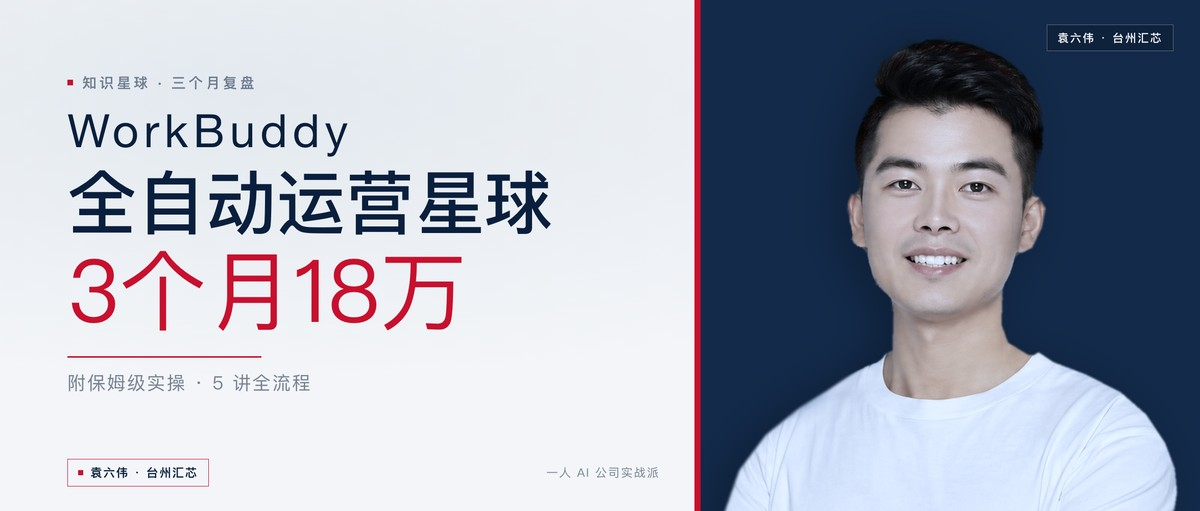
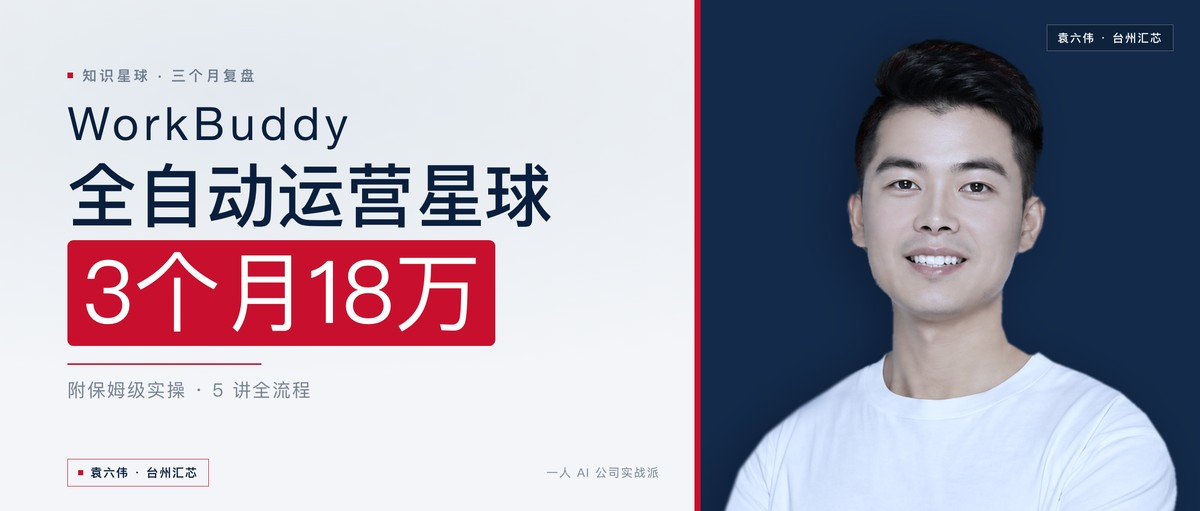
feat: high-contrast 6 cover layouts and cache-busting showcase v3

Changed region(s): [[0.0308, 0.3229, 0.4625, 0.7926], [0.0308, 0.2055, 0.3083, 0.2935], [0.0308, 0.1174, 0.2158, 0.1761]]

diff --git a/skills/wechat-cover-skill/scripts/render_cover_themes.py b/skills/wechat-cover-skill/scripts/render_cover_themes.py
@@ -291,34 +291,35 @@ def build_html(brief: dict, theme_key: str, portrait_uri: str, psize=(817, 883))
     <span class="strip-tag">{b['ip_tag']}</span>
   </div>"""
 
-    # 2) masthead：大刊报头 + 人物头顶破框叠压刊头细线
+    # 2) masthead：大刊报头（满宽深墨黑刊头条 + 人物头顶破框叠压）
     elif layout == "masthead":
-        p_h = 980
+        p_h = 960
         p_w = round(p_h * pw_ratio)
         p_left = W - p_w - 40
-        p_top = 86  # 刻意低于顶部 136px 报头线以下一点，使头部轻微破框叠压报头线
-        titles = _titles_html(b["lines"], t["weight"], 136, 168)
+        p_top = 92
+        titles = _titles_html(b["lines"], t["weight"], 134, 166)
         css = _base_css(t, theme_key) + f"""
-.masthead{{position:absolute;left:{TEXT_X}px;right:{TEXT_X}px;top:52px;height:86px;
-  border-bottom:2px solid {t['ink']};display:flex;justify-content:space-between;align-items:flex-end;padding-bottom:16px;z-index:1}}
-.mast-title{{font-family:{SERIF};font-size:44px;font-weight:700;letter-spacing:.18em;color:{t['ink']}}}
-.mast-title em{{font-style:normal;color:{t['accent']}}}
-.mast-meta{{font-family:{t['small_family']};font-size:23px;letter-spacing:.20em;color:{t['muted']};text-transform:uppercase}}
+.masthead{{position:absolute;left:0;right:0;top:0;height:112px;background:{t['ink']};
+  padding:0 {TEXT_X}px;display:flex;justify-content:space-between;align-items:center;z-index:1}}
+.mast-title{{font-family:{SERIF};font-size:40px;font-weight:700;letter-spacing:.18em;color:{t['paper']};
+  display:flex;align-items:center;gap:22px}}
+.mast-title .red-bar{{width:14px;height:42px;background:{t['accent']};display:inline-block}}
+.mast-meta{{font-family:{t['small_family']};font-size:22px;letter-spacing:.20em;color:rgba(241,239,234,.72);text-transform:uppercase}}
 .portrait{{position:absolute;left:{p_left}px;top:{p_top}px;width:{p_w}px;height:{p_h}px;
   object-fit:contain;object-position:bottom;filter:{SHADOW[theme_key]};z-index:2}}
-.txt{{position:absolute;left:{TEXT_X}px;top:210px;width:1160px;height:690px;z-index:3;
+.txt{{position:absolute;left:{TEXT_X}px;top:170px;width:1160px;height:710px;z-index:3;
   display:flex;flex-direction:column;justify-content:center}}
 .kicker{{margin-bottom:26px}}
-.brand{{font-size:88px;margin-bottom:16px}}
-.rule{{width:160px;height:4px;background:{t['accent']};margin:34px 0 24px}}
-.bottom-bar{{position:absolute;left:{TEXT_X}px;bottom:46px;width:1120px;border-top:1px solid {t['hair']};
+.brand{{font-size:86px;margin-bottom:16px}}
+.rule{{width:160px;height:4px;background:{t['accent']};margin:32px 0 22px}}
+.bottom-bar{{position:absolute;left:{TEXT_X}px;bottom:42px;width:1120px;border-top:1px solid {t['hair']};
   padding-top:16px;display:flex;justify-content:space-between;align-items:center;z-index:3;
   font-family:{SANS};font-size:23px;letter-spacing:.12em;color:{t['muted']}}}
 .bottom-bar strong{{color:{t['ink']};font-weight:600}}
 """
         body = f"""
   <div class="masthead">
-    <div class="mast-title">HUIXIN <em>·</em> {b['author']}</div>
+    <div class="mast-title"><i class="red-bar"></i><span>HUIXIN JOURNAL · {b['author']}</span></div>
     <div class="mast-meta">{b['ip_tag']}</div>
   </div>
   <img class="portrait" src="{portrait_uri}">
@@ -331,28 +332,30 @@ def build_html(brief: dict, theme_key: str, portrait_uri: str, psize=(817, 883))
   </div>
   <div class="bottom-bar"><span><strong>COLUMN</strong> · {b['kicker']}</span><span>{b['author']}</span></div>"""
 
-    # 3) archive-card：左侧大留白 + 右侧 1px 细框人物档案卡片 + IP 签名底栏
+    # 3) archive-card：左侧高亮反白结论 + 右侧微倾档案相框卡片
     elif layout == "archive-card":
         card_bg = t.get("card_bg", "#FFFFFF")
         p_h = 770
         p_w = round(p_h * pw_ratio)
-        titles = _titles_html(b["lines"], t["weight"], 138, 170)
+        titles = _titles_html(b["lines"], t["weight"], 134, 152)
         css = _base_css(t, theme_key) + f"""
 .txt{{position:absolute;left:{TEXT_X}px;top:0;width:1140px;height:{H}px;
   display:flex;flex-direction:column;justify-content:center}}
-.kicker{{margin-bottom:32px}}
-.brand{{font-size:92px;margin-bottom:16px}}
-.rule{{width:340px;height:2px;background:{t['accent']};margin:34px 0 24px}}
-.sub{{margin-bottom:44px}}
-.frame{{position:absolute;right:96px;top:62px;width:780px;height:876px;background:{card_bg};
-  border:2px solid {t['ink']};box-shadow:18px 18px 0 {t['accent']};overflow:hidden}}
+.kicker{{margin-bottom:28px}}
+.brand{{font-size:88px;margin-bottom:14px}}
+.tl.accent span{{display:inline-block;background:{t['accent']};color:{t['accent_on']};
+  padding:8px 26px 12px;margin-top:10px}}
+.rule{{width:340px;height:2px;background:{t['accent']};margin:34px 0 22px}}
+.sub{{margin-bottom:40px}}
+.frame{{position:absolute;right:104px;top:66px;width:760px;height:868px;background:{card_bg};
+  border:2.5px solid {t['ink']};box-shadow:22px 22px 0 {t['accent']};transform:rotate(-1.2deg);overflow:hidden}}
 .frame-top{{height:58px;border-bottom:1px solid {t['hair']};padding:0 28px;
   display:flex;justify-content:space-between;align-items:center;
   font-family:{t['small_family']};font-size:20px;font-weight:600;letter-spacing:.18em;color:{t['muted']}}}
-.frame-body{{position:relative;height:706px;overflow:hidden;background:{t['paper2']}}}
+.frame-body{{position:relative;height:698px;overflow:hidden;background:{t['paper2']}}}
 .portrait{{position:absolute;left:50%;transform:translateX(-50%);top:24px;width:{p_w}px;height:{p_h}px;
   object-fit:contain;object-position:bottom;filter:{SHADOW[theme_key]}}}
-.frame-foot{{height:110px;border-top:1.5px solid {t['ink']};padding:0 28px;background:{card_bg};
+.frame-foot{{height:110px;border-top:2px solid {t['ink']};padding:0 28px;background:{card_bg};
   display:flex;justify-content:space-between;align-items:center}}
 .frame-name{{font-family:{SERIF};font-size:32px;font-weight:700;color:{t['ink']};letter-spacing:.06em}}
 .frame-role{{font-family:{SANS};font-size:22px;color:{t['accent']};font-weight:600;letter-spacing:.08em}}
@@ -438,6 +441,8 @@ def build_html(brief: dict, theme_key: str, portrait_uri: str, psize=(817, 883))
   display:flex;flex-direction:column;justify-content:center}}
 .kicker{{margin-bottom:28px}}
 .brand{{font-size:90px;margin-bottom:16px}}
+.tl.accent span{{display:inline-block;background:{t['accent']};color:{t['accent_on']};
+  padding:8px 28px 12px;margin-top:8px;border-radius:12px}}
 .rule{{width:380px;height:3px;background:{t['accent']};margin:34px 0 24px}}
 .strip{{position:absolute;left:{TEXT_X}px;bottom:48px;width:1160px;display:flex;justify-content:space-between;align-items:center}}
 .strip-note{{font-family:{SANS};font-size:23px;color:{t['muted']};letter-spacing:.10em}}
@@ -460,13 +465,14 @@ def build_html(brief: dict, theme_key: str, portrait_uri: str, psize=(817, 883))
     <span class="strip-note">{b['ip_tag']}</span>
   </div>"""
 
-    # 6) cinema：电影宽银幕 + 暗底聚光 + 底部主创铭牌
+    # 6) cinema：电影宽银幕 + 暗底聚光 + 上下电影细金框 + 底部主创铭牌
     else:
         p_h = 1010
         p_w = round(p_h * pw_ratio)
         p_left = W - p_w - 20
         titles = _titles_html(b["lines"], t["weight"], 144, 178)
         css = _base_css(t, theme_key) + f"""
+.letterbox-top{{position:absolute;left:{TEXT_X}px;right:{TEXT_X}px;top:44px;height:1px;background:{t['hair']}}}
 .spot{{position:absolute;right:140px;top:120px;width:820px;height:820px;border-radius:50%;
   background:radial-gradient(circle, rgba(212,160,74,.20) 0%, transparent 66%);pointer-events:none}}
 .portrait{{position:absolute;left:{p_left}px;top:64px;width:{p_w}px;height:{p_h}px;
@@ -485,6 +491,7 @@ def build_html(brief: dict, theme_key: str, portrait_uri: str, psize=(817, 883))
 .credits strong{{color:{t['accent']};font-weight:600}}
 """
         body = f"""
+  <div class="letterbox-top"></div>
   <div class="spot"></div>
   <img class="portrait" src="{portrait_uri}">
   <div class="tint"></div>

diff --git a/README.md b/README.md
@@ -124,7 +124,7 @@ https://github.com/sixwei2025/workbuddy-wechat-autopilot
 告别「五段金色渐变 + 3D 投影 + 红色径向光晕」的廉价电商风。内置 `render_cover_themes.py`（Python + Headless Chrome 渲染），同一篇 brief、同一张真人抠像，一键直出 6 套高客单价杂志封面：
 
 <p align="center">
-  <img src="assets/showcase/00-cover-six.jpg" alt="六套封面体系总览：午夜墨、纸本墨、牛皮纸、靛蓝瓷、瑞士蓝、汇芯红" width="100%" />
+  <img src="assets/showcase/00-cover-layouts-v3.jpg" alt="六套封面体系总览：午夜墨、纸本墨、牛皮纸、靛蓝瓷、瑞士蓝、汇芯红" width="100%" />
 </p>
 
 | 主题 ID | 名称 | 默认构图版式（`--layout`） | 底色 / 锚点色 | 适用题材 |
